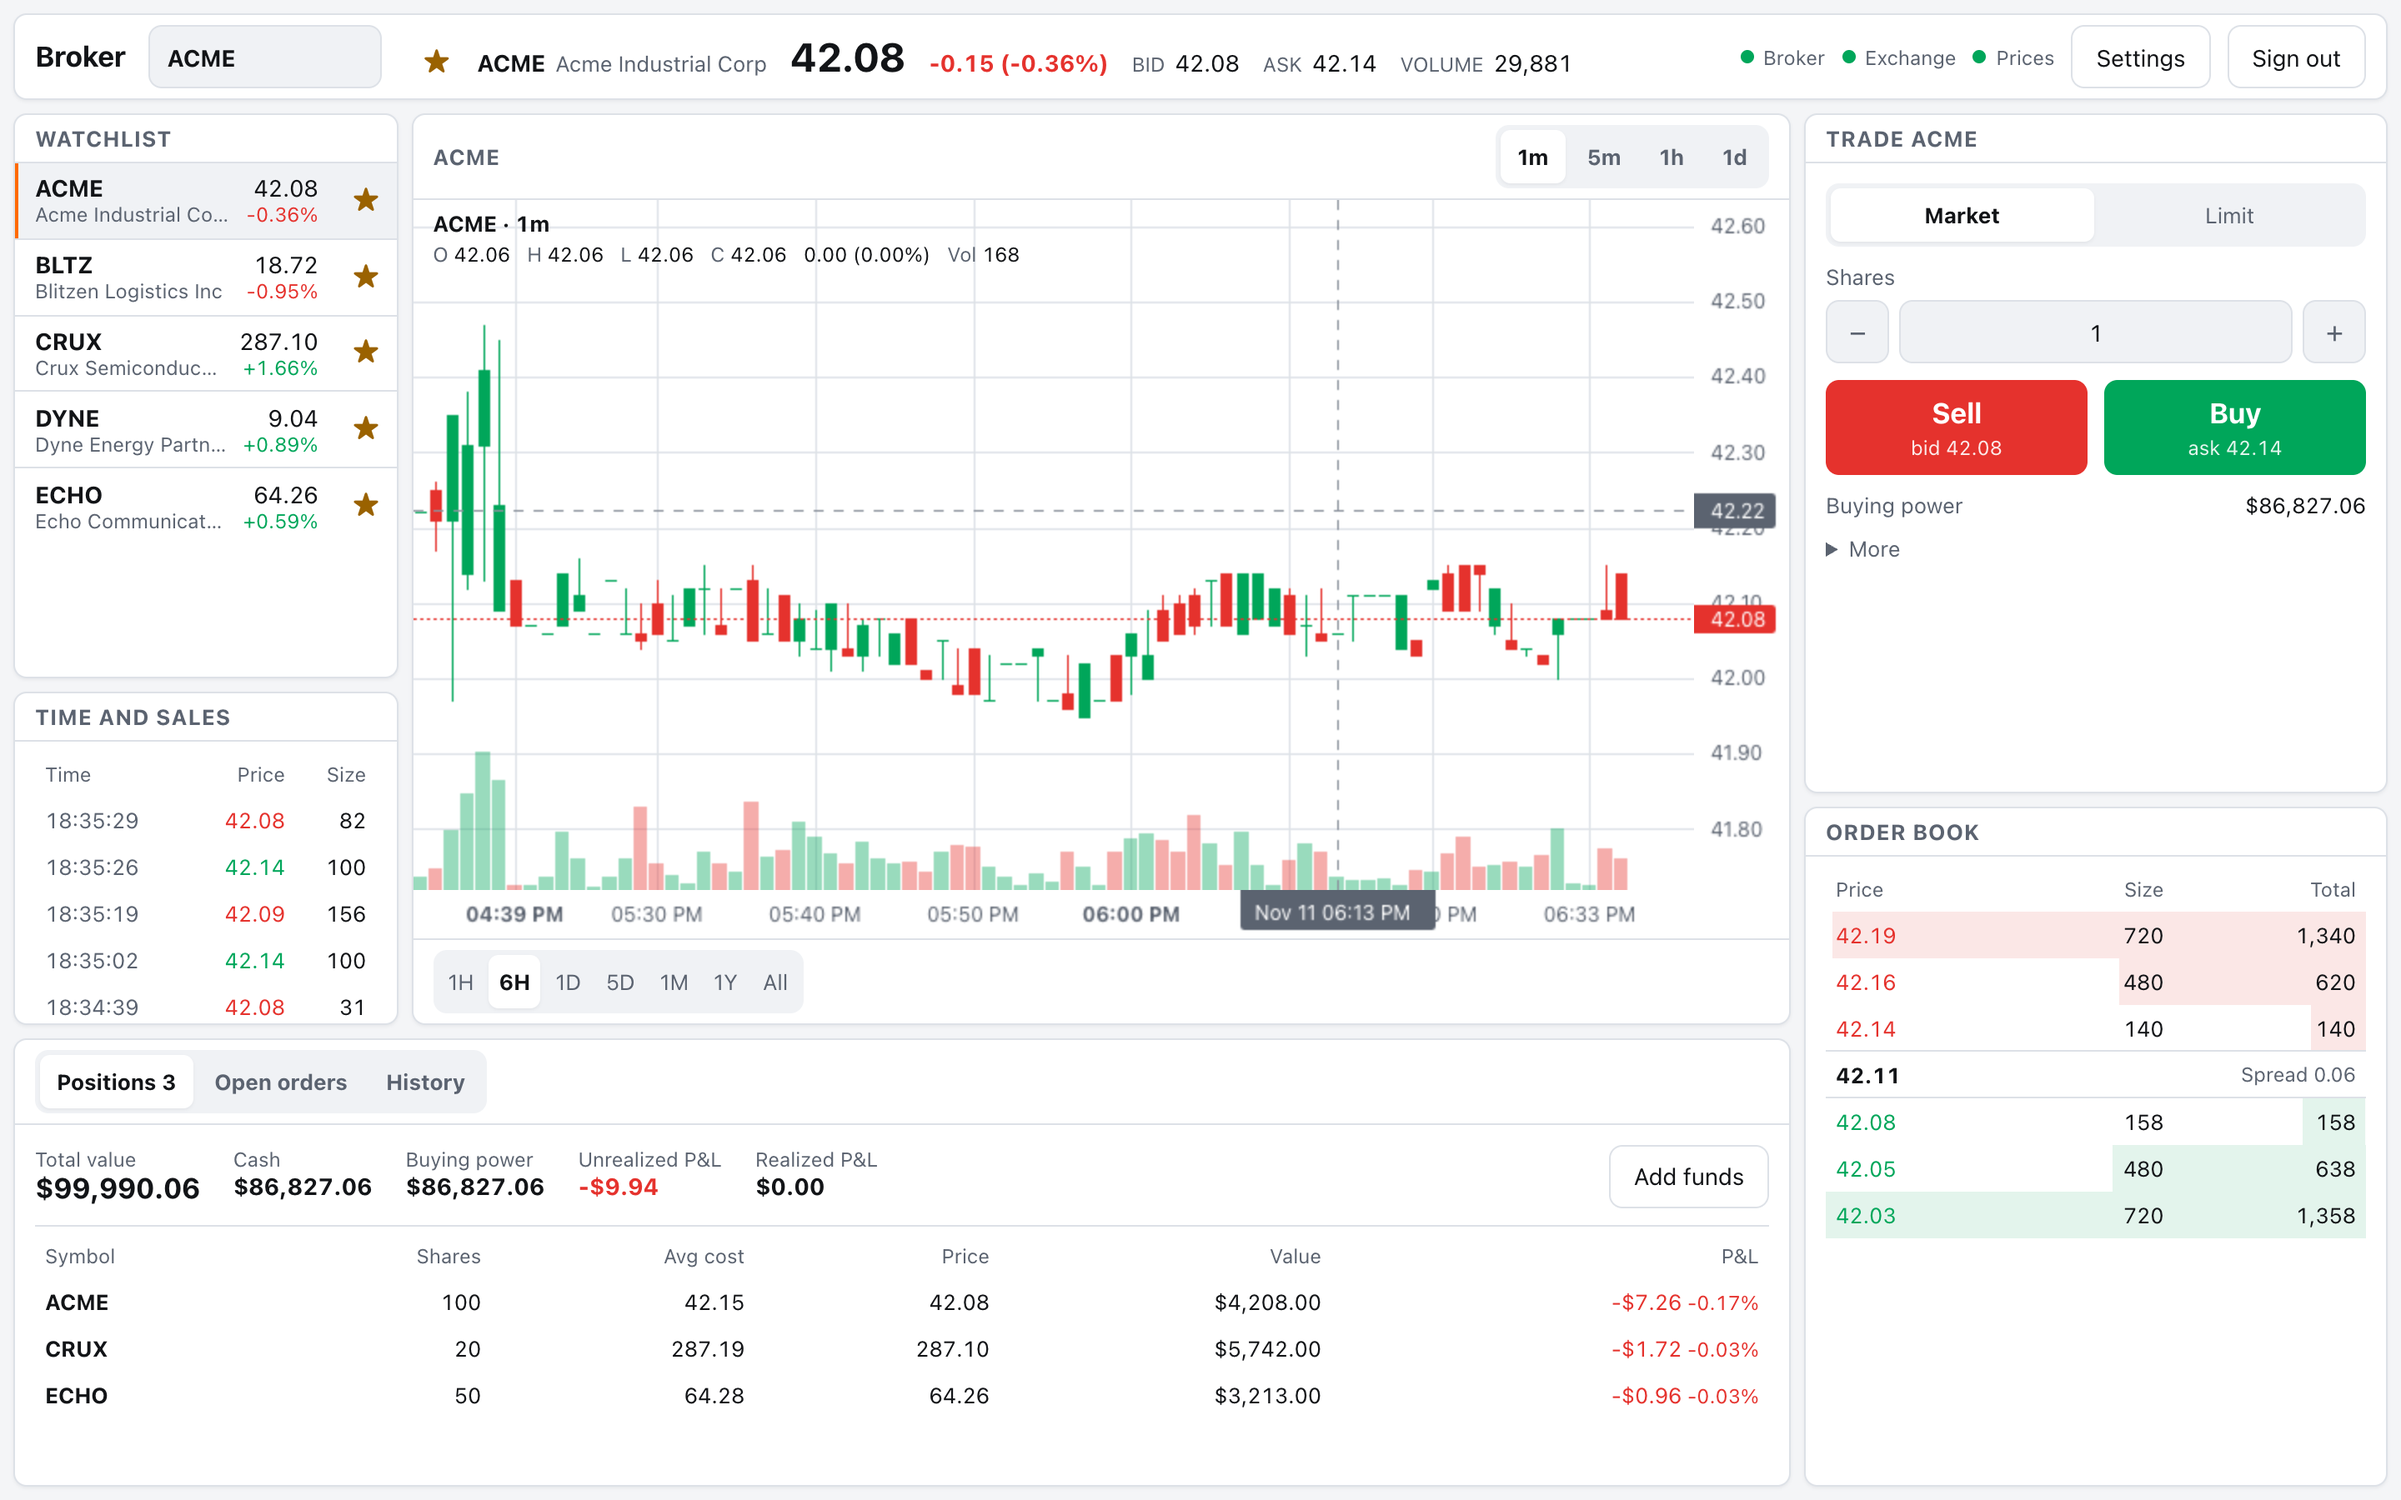
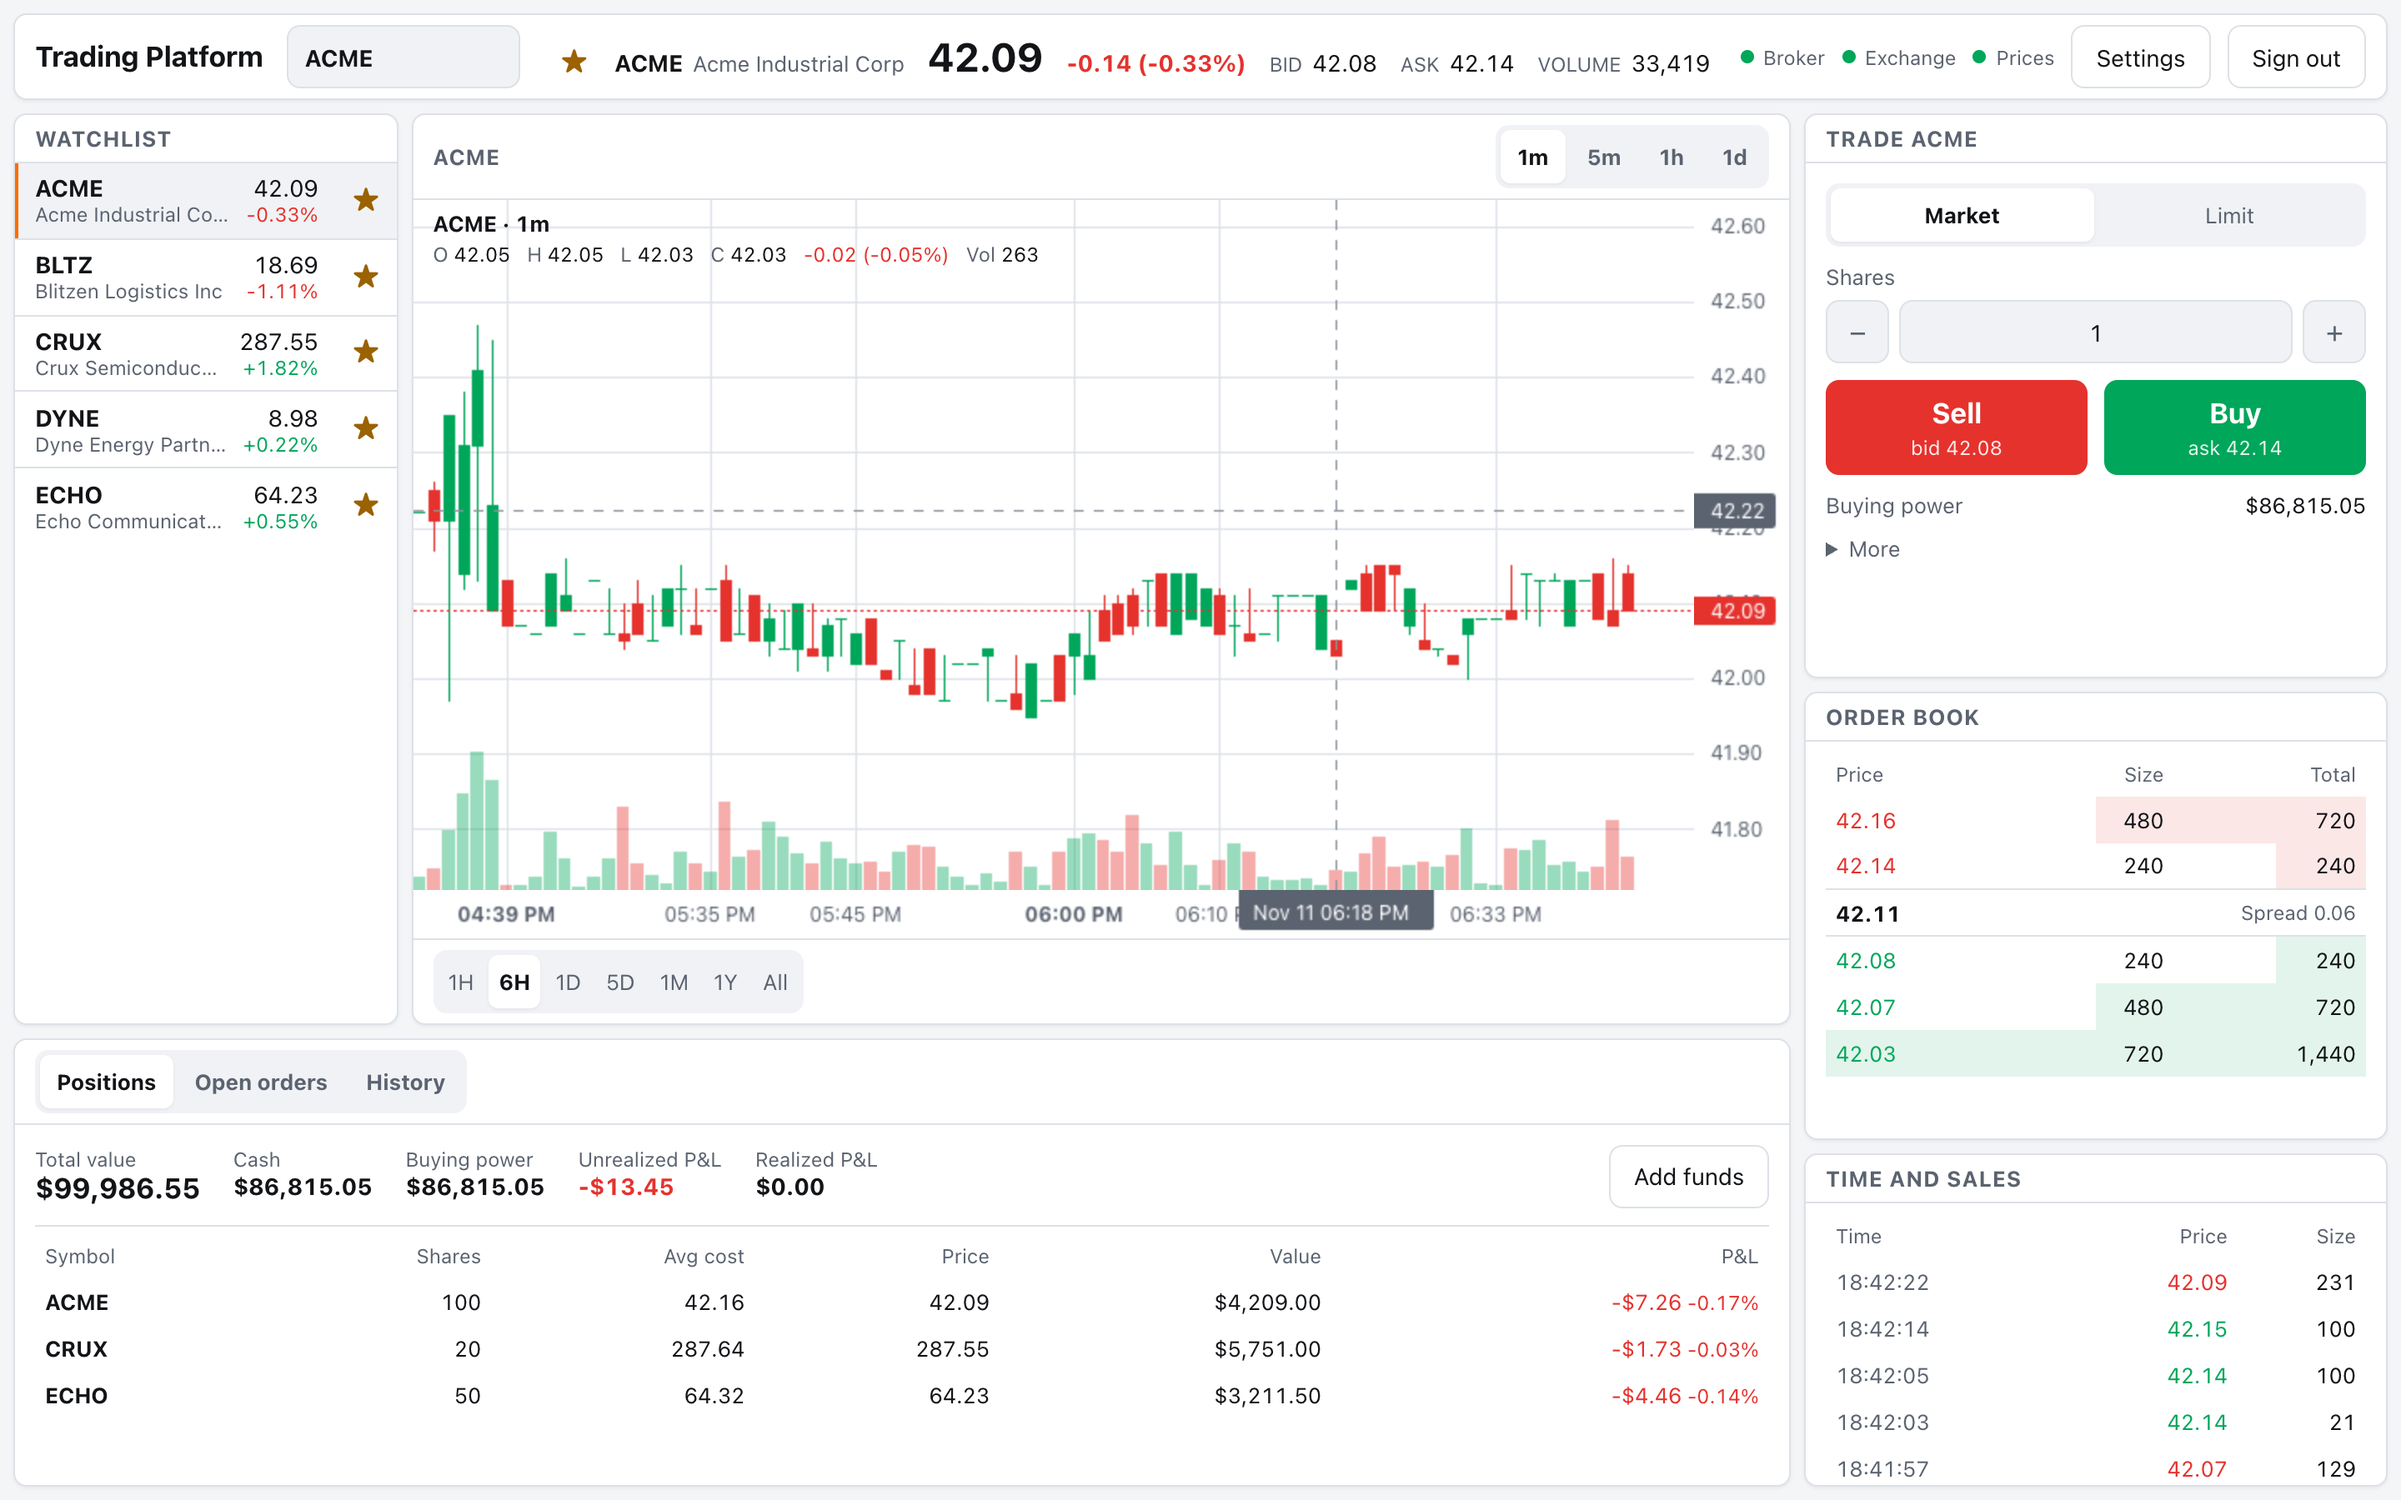
docs: new screenshots and the web TODO
The README screenshots retaken with the new name and layout, and an "After M8" note in
the web TODO.

diff --git a/broker/web/TODO.md b/broker/web/TODO.md
@@ -346,6 +346,18 @@ Decisions:
 - **Prices in the legend come from cents** (`chart/legend.ts`, `formatCents`); the series
   stays in dollars for drawing only.
 
+### After M8
+
+- **Defaults:** Active is the style a first visit gets (`DEFAULT_STYLE` in `theme/theme.ts`,
+  repeated in `index.html`'s pre-paint script). The app is called "Trading Platform".
+- **Active's layout:** time and sales moved under the order book in the right column (ticket
+  5 rows, book 4, tape 3), and the watchlist has the full left column again. On a phone:
+  chart, ticket, book, time and sales, then activity and the watchlist.
+- **Favicon:** `public/favicon.svg`, three candles (one down, two rising) on a dark tile,
+  kept to a few thick shapes so it stays readable at 16px on light and dark tab bars.
+- **Positions tab:** no count in its name. Open orders keeps its count, since that one is
+  worth noticing.
+
 ## Done when
 
 Click "Buy 100" in the browser, watch the order fill in the blotter, the book move, and
